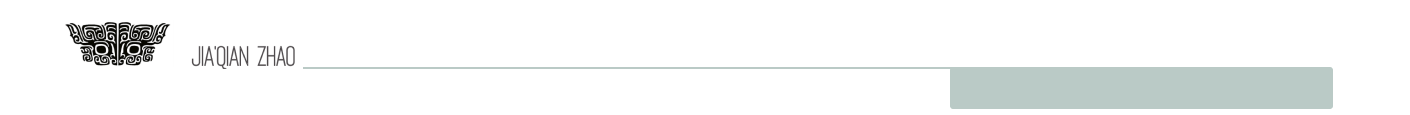
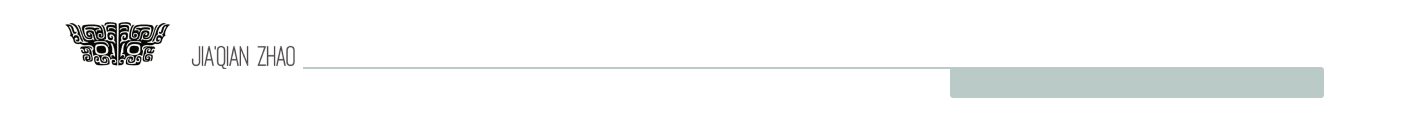
fixed nvbar and footer

Changed region(s): [[0.6553, 0.5739, 0.9674, 0.9652]]

diff --git a/Contact.html b/Contact.html
@@ -12,7 +12,7 @@
 </head>
 
 <body>
-    <div class='bg-img' id='responsive'>
+    <header class='bg-img' id='responsive'>
         <div class='container'>
             <ul class='nav'>
                 <li class='nav-item'>
@@ -29,7 +29,7 @@
                 </li>
             </ul>
         </div>
-    </div>
+    </header>
 
     <footer class='fbg-img' id='responsive'>
         <div class='Fcontainer'>

diff --git a/style.css b/style.css
@@ -8,10 +8,10 @@
 }
 
 .container {
-    position: relative;
     margin: 20px;
-    top: 100px;
-    left: 67.5%;
+    margin-top: 5%;
+    margin-right: 5%;
+    float: right;
     width: auto;
 }
 
@@ -45,9 +45,10 @@
 }
 
 .Fcontainer {
-    position: relative;
-    top: 120px;
-    left: 2%;
+    margin: 10px;
+    margin-top: 6.5%;
+    margin-left: 4.5%;
+    float: left;
     width: auto;
 }
 

diff --git a/index.html b/index.html
@@ -41,7 +41,7 @@
         <br>
         <div class='row'>
             <div class='container-fluid'>
-                <img src='./img/JZ.png'>
+                <img src='./img/JZ.png' class="img-fluid">
             </div>
             <div class='container-fluid'>
 
